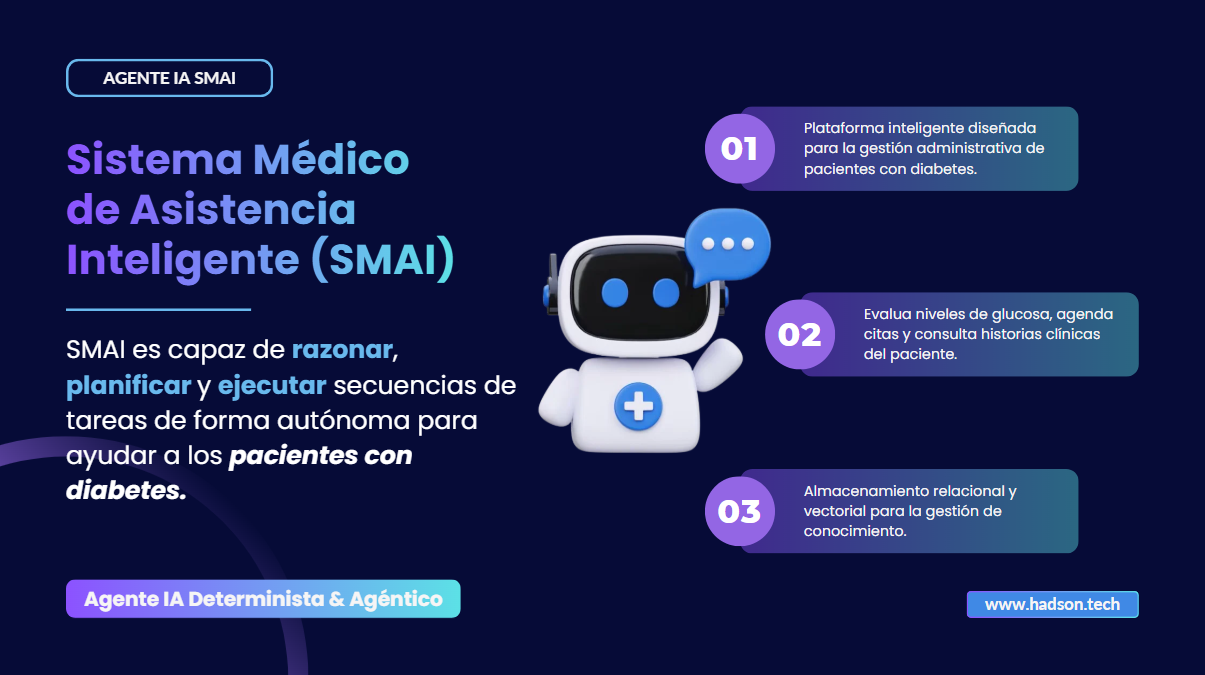
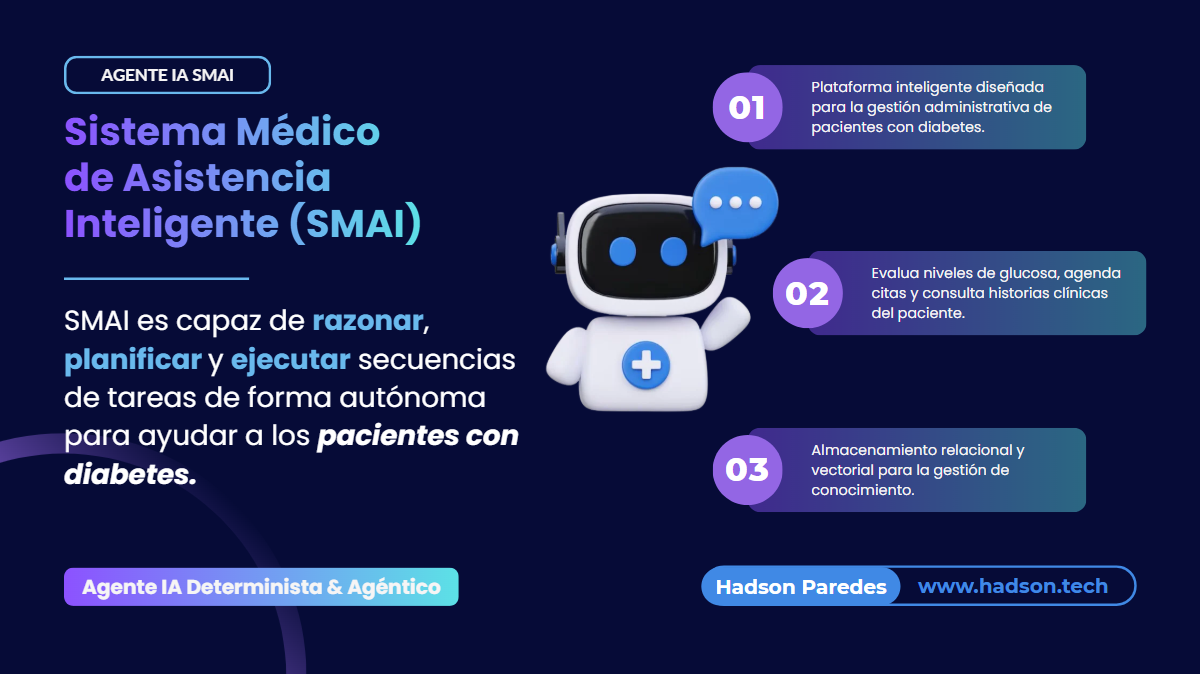
Documentación: AI Engineer & Generative Systems Architecture

diff --git a/README.md b/README.md
@@ -1,0 +1,318 @@
+# Proyecto Agéntico LMPE2355-20260825
+
+Denominado como **Sistema Médico de Asistencia Inteligente (SMAI)** desarrollada aplicando inteligencia artificial, **SMAI** es capaz de razonar, planificar y ejecutar secuencias de tareas de forma autónoma para ayudar a los pacientes con diabetes. El sistema combina un enfoque **Determinista** (para reglas clínicas estrictas y validaciones) con un enfoque **Agéntico - ReAct** (razonamiento inductivo y selección dinámica de herramientas).
+
+![flayer-smai](frontend/src/assets/flayer-smai.png)
+
+## Documento técnico del **Sistema Médico de Asistencia Inteligente (SMAI)**
+
+*Documentación elaborado por [Hadson Paredes](https://www.linkedin.com/in/hadson-paredes/) - 2026*
+- Repositorio: [Project-Agentic-Deterministic-ReAct-SMAI](https://github.com/devhadson/Project-Agentic-Deterministic-ReAct-SMAI)
+- Elaboración: Sistema Médico de Asistencia Inteligente (SMAI)
+  - Plataforma inteligente diseñada para la gestión administrativa de pacientes con diabetes.
+  - Google Identity: `OAuth 2.0` y Autentication & Permisos de Usuario (`RBAC`)
+  - Arquitectura: Híbrida (Determinista y Agéntica)
+  - Modelo Fundacional IA: OpenAI (`GPT-4o`)
+  - Contexto, Prompting y Orquestación de Agentes: LangChain Framework
+  - Frontend: Streamlit Framework 
+  - Base de datos: Transaccional `PostgreSQL` y Vectorial `FAISS`
+- Especialización: IA Engineer y Arquitetura de Sistemas Generativos 
+- Docente: [Miguel Angel Cotrina Espinoza](https://www.linkedin.com/in/mcotrina/)
+- [Instituto de Datos e Inteligencia Artificial - URP](https://www.linkedin.com/company/idia-urp/)
+
+### Resumen Arquitectónico del Proyecto
+
+Este repositorio implementa una arquitectura desacoplada basada en patrones Agénticos y Deterministas:
+
+![flayer-smai](frontend/src/assets/diagrama-despliegue.png)
+
+- **Frontend (`/frontend`):** Interfaz de usuario interactiva construida en **Streamlit**, organizada mediante vistas modulares (`views`) y clientes de servicios.
+- **Backend (`/backend`):** API REST impulsada por **FastAPI**, estructurada con enrutadores v1, esquemas Pydantic, servicios RAG/Base de datos y agentes ReAct con herramientas (`tools`).
+- **Servidor MCP (`mcp_server`):** Módulo encargado de exponer herramientas mediante el protocolo **FastMCP / SSE** para la integración segura con historias clínicas y vectores FAISS.
+- **Orquestación Agéntica:** Combina flujos deterministas con capacidad de razonamiento **ReAct** para consultas clínicas, triaje y gestión de contexto.
+
+> [!IMPORTANT]
+> Puedes revisar la evoluación de este proyecto en base al [MVP1](https://github.com/devhadson/Project-Agentic-AI-Virtual-Medical-Assistant), [MVP1](https://github.com/devhadson/Project-Agentic-AI-SMAI) y [MVP1](https://github.com/devhadson/Project-Agentic-AI-SMA-M6).
+
+### Librerías y Dependencias Principales
+
+- `bcrypt`
+- `fastapi`
+- `fastmcp`
+- `langchain`
+- `langchain-community`
+- `openai`
+- `psycopg2-binary`
+- `pydantic`
+- `pyjwt`
+- `python-dotenv`
+- `requests`
+- `requests-oauthlib`
+- `sqlalchemy`
+- `streamlit`
+- `uvicorn`
+
+### Estructura del Proyecto
+
+```text
+Project-Agentic-Deterministic-ReAct-SMAI/
+├── backend
+│   ├── app
+│   │   ├── agents
+│   │   │   ├── tools
+│   │   │   │   ├── __init__.py
+│   │   │   │   ├── db_tool.py
+│   │   │   │   └── twilio_tool.py
+│   │   │   └── __init__.py
+│   │   ├── api
+│   │   │   ├── v1
+│   │   │   │   ├── endpoints
+│   │   │   │   │   ├── __init__.py
+│   │   │   │   │   ├── agent.py
+│   │   │   │   │   ├── audio.py
+│   │   │   │   │   ├── auth.py
+│   │   │   │   │   ├── clinical.py
+│   │   │   │   │   ├── health.py
+│   │   │   │   │   ├── notifications.py
+│   │   │   │   │   └── rag.py
+│   │   │   │   ├── __init__.py
+│   │   │   │   └── router.py
+│   │   │   └── __init__.py
+│   │   ├── core
+│   │   │   ├── __init__.py
+│   │   │   ├── config.py
+│   │   │   ├── database.py
+│   │   │   └── security.py
+│   │   ├── schemas
+│   │   │   ├── __init__.py
+│   │   │   ├── agent_schema.py
+│   │   │   ├── audio_schema.py
+│   │   │   ├── auth_schema.py
+│   │   │   ├── chat_schema.py
+│   │   │   ├── clinical_schema.py
+│   │   │   ├── notification_schema.py
+│   │   │   └── rag_schema.py
+│   │   ├── services
+│   │   │   ├── __init__.py
+│   │   │   ├── audio_service.py
+│   │   │   ├── auth_service.py
+│   │   │   ├── clinical_service.py
+│   │   │   ├── db_service.py
+│   │   │   ├── rag_service.py
+│   │   │   └── twilio_service.py
+│   │   └── __init__.py
+│   ├── uploads_temp
+│   ├── vectorstore
+│   │   └── db_faiss
+│   ├── .env
+│   ├── main.py
+│   └── requirements.txt
+├── frontend
+│   ├── mcp_server
+│   │   ├── __init__.py
+│   │   └── serverhc.py
+│   ├── src
+│   │   ├── assets
+│   │   │   ├── ai-medicine-robot-600.webp
+│   │   │   ├── imagotipo-smain.png
+│   │   │   ├── isotipo-smai.png
+│   │   │   └── robot-smai.png
+│   │   ├── components
+│   │   │   ├── auth_ui.py
+│   │   │   └── sidebar.py
+│   │   ├── services
+│   │   │   ├── __init__.py
+│   │   │   └── api_client.py
+│   │   ├── views
+│   │   │   ├── cargar_view.py
+│   │   │   ├── dashboard_view.py
+│   │   │   ├── historia_view.py
+│   │   │   ├── triaje_view.py
+│   │   │   └── util_triaje.py
+│   │   └── __init__.py
+│   ├── app.py
+│   └── requirements.txt
+└── .env
+```
+### Guía para Ejecutar el Proyecto
+
+#### Prerrequisitos:
+
+* Python 3.10+ / Anaconda
+* Instancia de PostgreSQL ejecutándose con el modelo de datos.
+* Aplicación registrado en Google Auth Platform.
+
+  ![model-database](frontend/src/assets/model-database.png)
+
+#### A. Ejecución del Backend (FastAPI)
+
+1. Ir a la carpeta backend:
+```bash
+cd backend
+```
+
+2. Crear y activar el entorno virtual:
+
+```bash
+python -m venv venv
+source venv/Scripts/activate
+```
+
+```bash
+python -m pip install --upgrade pip
+```
+
+3. Instalar las dependencias de Python:
+
+```bash
+pip install -r requirements.txt
+```
+
+4. Configurar las variables de entorno en `.env`:
+
+```env
+# Credencial OpenAI
+OPENAI_API_KEY=tu_openai_key
+
+LANGSMITH_TRACING=true
+LANGSMITH_ENDPOINT=https://api.smith.langchain.com
+LANGSMITH_API_KEY=¨[api_key]
+LANGSMITH_PROJECT="medical_assistant"
+
+# Credenciales de Google OAuth 2.0
+GOOGLE_REDIRECT_URI=[http://localhost:9999/ o https://dominio.com]
+GOOGLE_CLIENT_ID=[tu_id]
+GOOGLE_CLIENT_SECRET=[tu_secre]
+
+# Credenciales Comunicaciones Twilio
+TWILIO_ACCOUNT_SID=[tu_sid]
+TWILIO_AUTH_TOKEN=[tu_token]
+TWILIO_PHONE_NUMBER=[tu_numero]
+
+# Configuración del Backend
+DATABASE_URL=[cx_postgresql]
+SECRET_KEY=tu_clave_secreta_jwt_super_segura_12345
+ALGORITHM=[algo_hs256]
+ACCESS_TOKEN_EXPIRE_MINUTES=[time_session]
+
+```
+5. Iniciar la backend servidor FastAPI:
+
+```bash
+uvicorn main:app --host 0.0.0.0 --port 8000 --reload
+```
+
+> Verificar funcionamiento navegando a la documentación OpenAPI Swagger: `http://localhost:8000/docs`
+
+#### B. Ejecución del Frontend (Streamlit)
+
+> En el caso necesita validar el servicio MCP desde el MCP Inspector STDIO (Standard Input/Output) transport mode ejecutar los siguiente comando.
+
+1. En una nueva terminal, ir a la carpeta frontend:
+
+```bash
+cd frontend
+```
+
+2. Iniciar la MCP Inspector:
+
+```bash
+npx @modelcontextprotocol/inspector python mcp_server/serverhc.py
+```
+
+#### C. Ejecución del Frontend (Streamlit)
+
+1. En una nueva terminal, ir a la carpeta frontend:
+
+```bash
+cd frontend
+```
+
+2. Crear y activar el entorno virtual:
+
+```bash
+python -m venv venv
+source venv/Scripts/activate  # En Windows: venv\Scripts\activate
+```
+
+3. Instalar las dependencias del cliente:
+
+```bash
+pip install -r requirements.txt
+```
+
+4. Iniciar la aplicación cliente Streamlit:
+
+```bash
+streamlit run app.py
+```
+
+> Acceder a la interfaz web ingresando a: `http://localhost:8501/`
+
+## Resumen del Sistema (SMAI)
+
+### 1. Problema de Negocio y Objetivo
+
+* **Problema:** En la atención primaria, el triaje de niveles de glucosa para pacientes con diabetes es un proceso manual, lento y sujeto a errores. Esto provoca retrasos en emergencias críticas (como la hipoglucemia grave), sobrecarga los servicios de urgencias e impide un seguimiento preventivo personalizado.
+* **Objetivo:** Optimizar el triaje y el agendamiento de citas mediante un asistente virtual que combina reglas de negocio **deterministas** (para decisiones críticas de salud) con **agentes de IA** basados en LLM (para interacción adaptativa y tareas agénticas).
+
+### 2. Arquitectura de Triaje Clínico
+
+El flujo de evaluación de niveles de glucosa de los pacientes sigue dos caminos diferenciados:
+
+1. **Ruta Determinista (Glucosa > 250 mg/dL):** Se activa para hiperglucemias severas. Directamente emite una **orden de laboratorio** y finaliza la sesión sin pasar por intervención conversacional abierta.
+2. **Ruta Agéntica:**
+* **Glucosa < 70 mg/dL (Hipoglucemia):** El *Agente de Emergencia* emite una alerta, permitiendo realizar acciones inmediatas como contactar o llamar a emergencias.
+* **Glucosa Normal (70 - 250 mg/dL):** El *Agente de Agenda* asiste al usuario para registrar una cita médica de forma rutinaria e inteligente.
+
+### 3. Modulos del Sistema y Experiencia de Usuario (FrontEnd)
+
+El sistema está construido sobre **Streamlit** y ofrece los siguientes módulos clave:
+
+* **Dashboard:** Panel de control analítico (reportes).
+* **Triaje / Agendamiento:** Evaluación de riesgos y programación de citas con interacción por **texto o voz (micrófono)**.
+* **Cargar Historia & Historia Clínica:** Módulos para subir los expedientes médicos (HC) y consulta de gestión del conocimiento basados en **RAG**.
+* **Control de Acceso (Autenticación Híbrida):** Soporta roles (paciente, enfermería, médico, administrador) usando credenciales locales (hashing) y Google Identity (OAuth 2.0 / JIT Provisioning).
+
+### 4. Stack Tecnológico Principal y Componentes Internos
+
+* **Capa de Aplicación y Backend:** Desarrollado en **FastAPI** (Python) y orquestado mediante **LangChain**.
+* **Modelos de IA:** Integración con **OpenAI (GPT-4 / GPT-4o-mini)** para el razonamiento agéntico y **Whisper** para la conversión de voz a texto.
+* **Servidor MCP (Model Context Protocol):** Utiliza **FastMCP** sobre transporte **SSE** (Server-Sent Events) para consultar y verificar historias clínicas de forma estructurada (`verificar_existencia_hc`, `obtener_registros_hc`).
+* **Notificaciones:** Integración con **Twilio API** para llamadas de voz y SMS de emergencia.
+* **Persistencia de Datos:**
+* **PostgreSQL:** Base de datos relacional para usuarios, citas, médicos, pacientes y metadatos.
+* **FAISS (Vector Store):** Base de datos vectorial local utilizada junto a *OpenAI Embeddings* (`text-embedding-3-small`) para la búsqueda semántica en historias clínicas (RAG).
+
+### Conclusiones
+
+1. **Equilibrio Eficiente entre Determinismo y Flexibilidad:** SMAI no delega todo el juicio clínico al LLM. Al utilizar un enfoque híbrido, garantiza que los casos médicos críticos (glucosa > 250 mg/dL) sigan protocolos médicos estrictos sin alucinaciones, mientras aprovecha el poder conversacional de los agentes generativos para el agendamiento y soporte.
+2. **Capacidad de Respuesta ante Emergencias:** La automatización de alertas inmediatas para hipoglucemias y la integración directa con servicios de llamadas/SMS (Twilio) permiten reducir los tiempos de respuesta ante situaciones que ponen en riesgo la vida del paciente.
+3. **Estándar de Interoperabilidad Moderno (MCP):** La incorporación de la especificación *Model Context Protocol* (MCP) demuestra una arquitectura desacoplada y escalable, facilitando la consulta segura de expedientes e historias clínicas a través de herramientas estándar.
+4. **Enfoque Integral (RAG + Multimodalidad):** El sistema va más allá de un bot convencional al ofrecer entrada por voz (Whisper) y la capacidad de procesar y consultar expedientes médicos complejos mediante RAG (FAISS + LangChain).
+5. **Seguridad y Control Operativo:** La arquitectura cuenta con autenticación robusta (OAuth2 / RBAC / Hashing), garantizando que solo el personal autorizado (médicos, enfermeros o pacientes) acceda a los módulos de acuerdo a su perfil.
+
+---
+
+*Documentación elaborado por [Hadson Paredes](https://www.linkedin.com/in/hadson-paredes/) - 2026*
+- Repositorio: [Project-Agentic-Deterministic-ReAct-SMAI](https://github.com/devhadson/Project-Agentic-Deterministic-ReAct-SMAI)
+- Disponible como recurso públicos en [Hadson.Tech](https://hadson.tech/public-resources/project-agentic-ai/Project-Agentic-Deterministic-ReAct-SMAI)
+
+<hr>
+<h4 align="center"> Publicaciones en mis redes sociales y repositorio GitHub</h4>
+
+<div align="center">
+  <h3>Sígueme en mis redes sociales</h3>
+  <a href="https://github.com/devhadson">
+    <img src="https://img.shields.io/badge/GitHub-devhadson-black?logo=GitHub&style=flat-square" target="_blank" alt="GitHub">
+  </a>
+  <a href="https://www.linkedin.com/in/hadson-paredes/">
+    <img src="https://img.shields.io/badge/LinkedIn-Hadson%20Paredes-blue?logo=linkedin&style=flat-square" target="_blank" alt="LinkedIn">
+  </a>
+  <a href="https://www.facebook.com/hadson.paredescordova/">
+    <img src="https://img.shields.io/badge/Facebook-Hadson%20Paredes%20Cordova-Gree?logo=facebook&style=flat-square" target="_blank" alt="Facebook">
+  </a>
+  <a href="https://x.com/hadson_paredes">
+    <img src="https://img.shields.io/badge/Hadson%20Paredes-black?logo=x&style=flat-square" target="_blank" alt="X">
+  </a>
+</div>
